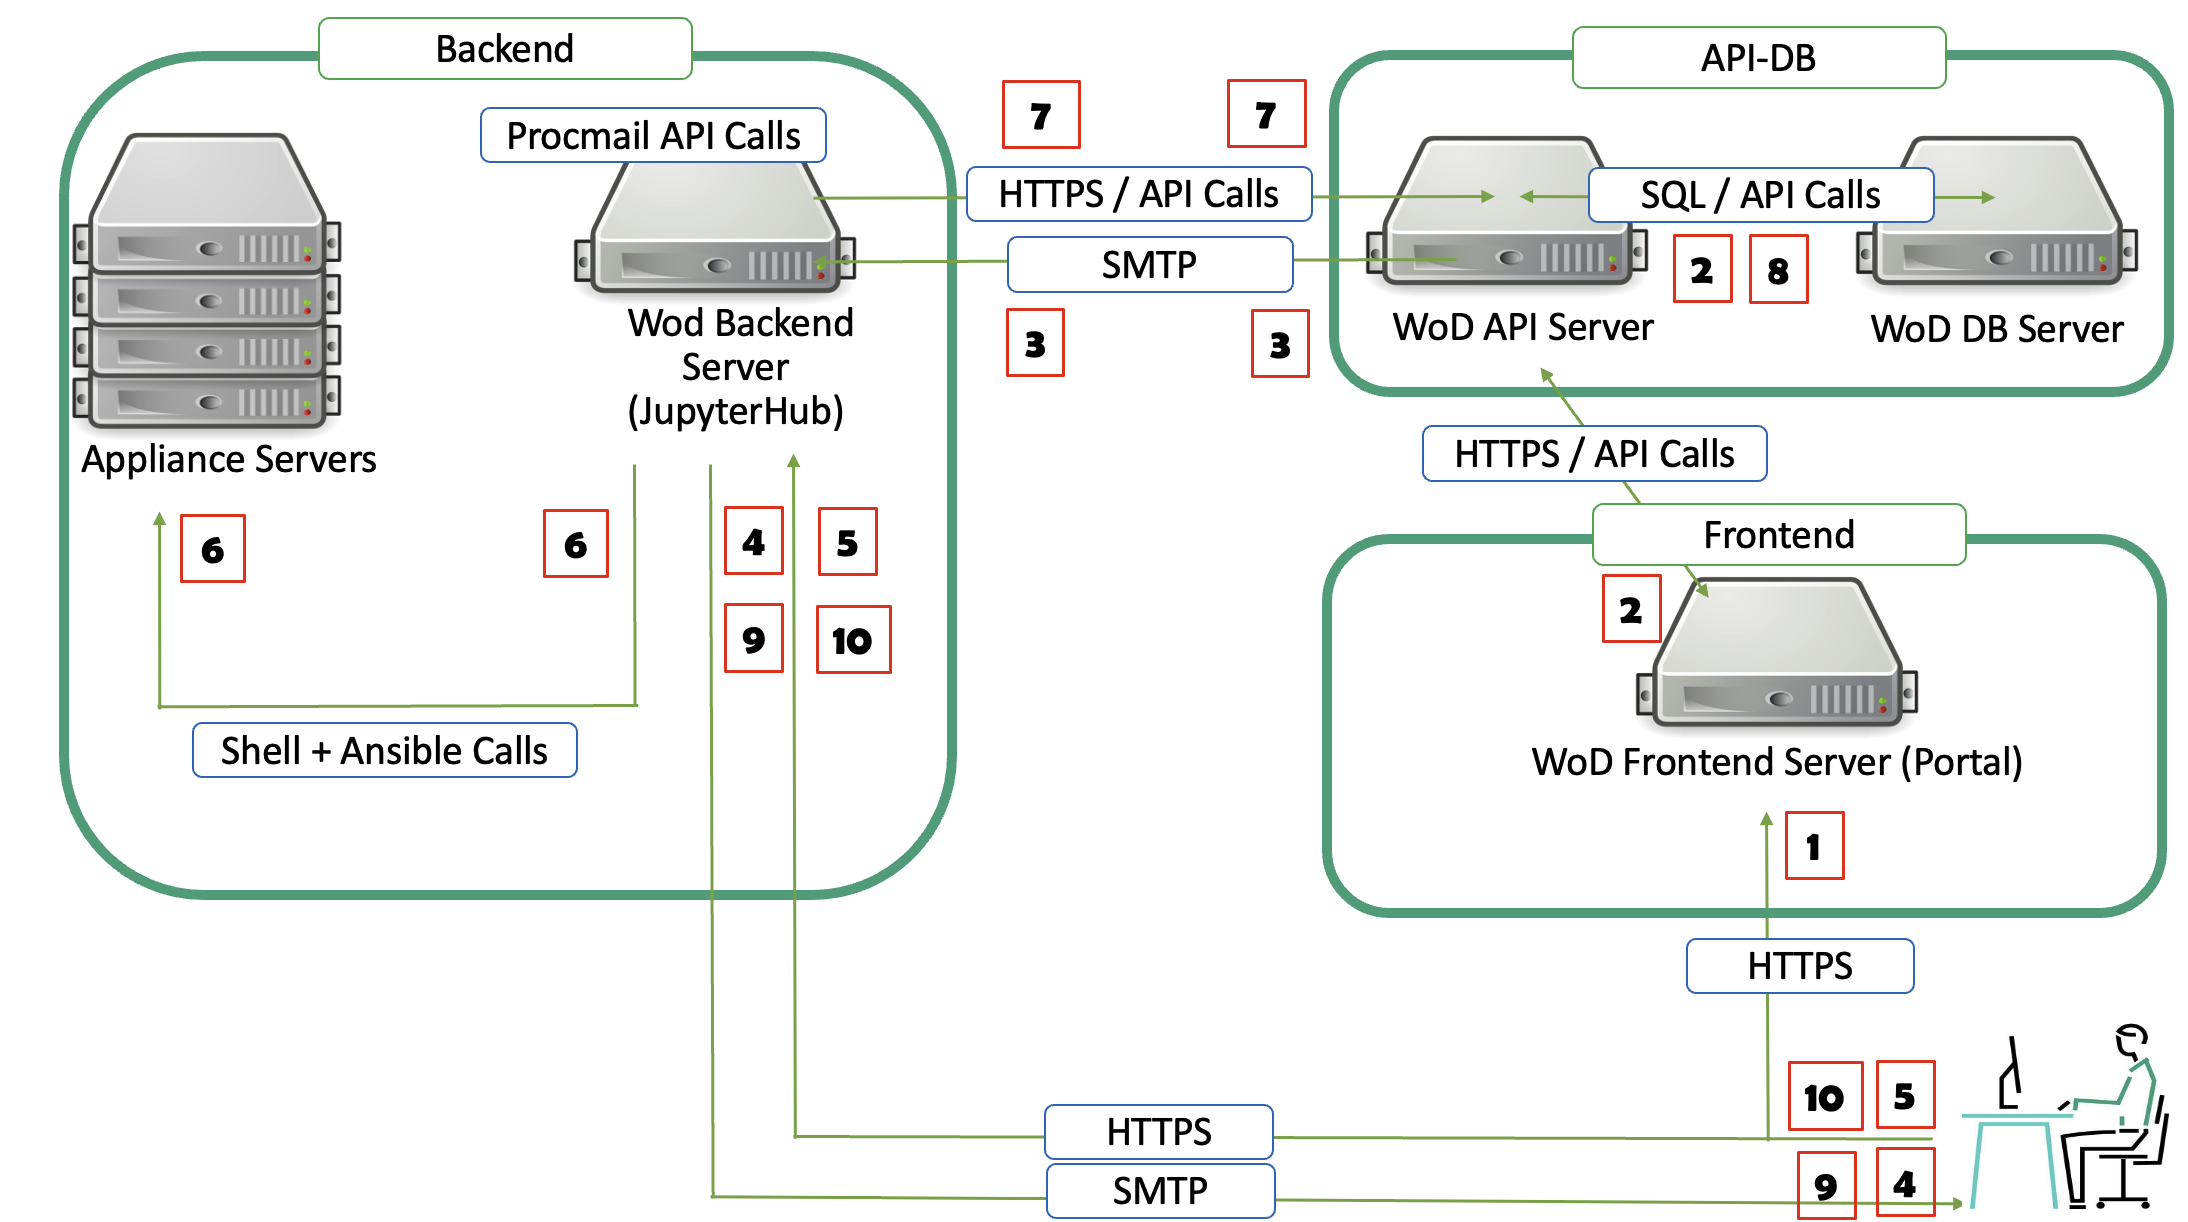
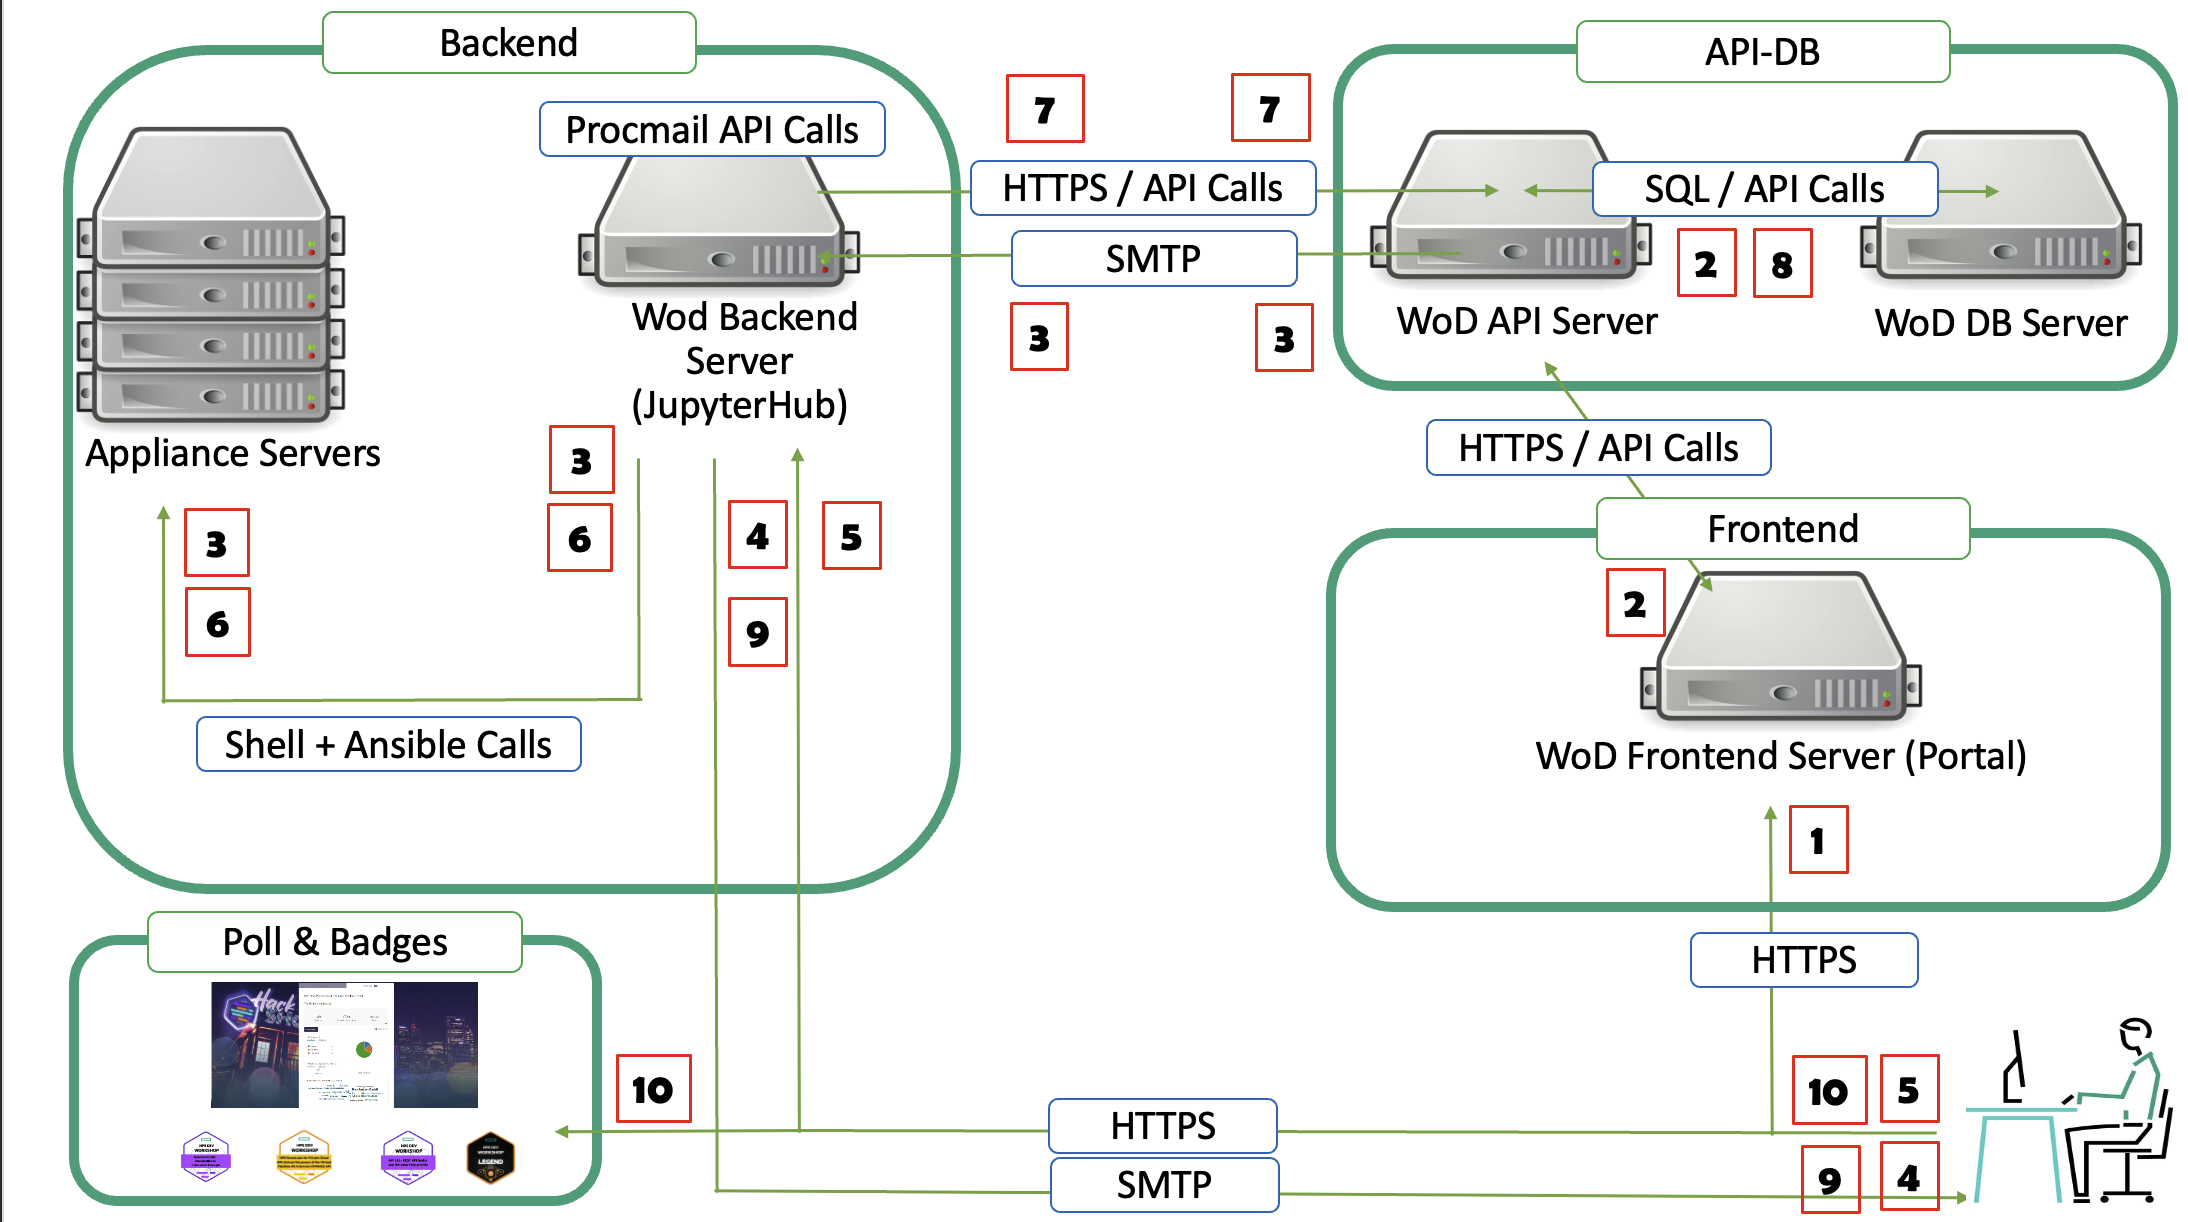
Start importing HPE blog articles to create the projects documentation

diff --git a/profile/GUIDE.md b/profile/GUIDE.md
@@ -1,0 +1,76 @@
+![HackShack Portal Page](img/hackshack.png)
+
+After the physical restrictions placed on us by the COVID-19 pandemic, everyone appears to be finding new ways to connect and learn.
+
+It is in this spirit that the HPE DEV team is making their highly popular Jupyter Notebook-based workshops available for free, under the Apache v2 Open Source license, now available at [github.com](https://github.com/Workshops-on-Demand). These on-demand workshops, which premiered at the HPE Discover Virtual Event, have met with rave reviews worldwide. They provide developers, data scientists, and IT professionals the opportunity to get more hands-on experience working with various technologies.
+
+These on-demand workshops offer students an understanding of specific technologies through a hands-on experience and detailed instructions provided in a Jupyter Notebook format. Read on to understand the details of this Workshops-on-Demand (WoD) program.
+
+Students will generally have between 2 and 4 hours to go through the course, which includes time to review the video replay (if available), follow the Jupyter Notebook instructions, and save their work to their local laptop should they want to do more work in their own environment or retake the workshop.
+
+Our goal is to provide both a platform that any structure can deploy onsite or in the cloud to support knowledge tranfer for their practitioners, as well as pre-existing content (which the HP DEV team also open sourced) on Open Source technologies. Those interested by the deplyment and architecture should read the [dedicated document](DOCUMENTATION.md).
+
+In the rest of this user's guide, we will use the existing HPE DEV Hackshack platform to explain how things works. The only difference between the Open Source platform and HPE's one is the portal, more rich for HPE, providing blog articles, technical documentation, ... OK Time to start !
+
+## How it works
+
+Those who wish to enroll in the workshop should go to the [Hack Shack Workshop page](https://developer.hpe.com/hackshack/workshops/). From there, select which on-demand workshop you want to take and click on the **Register** button:
+
+
+![navigate register button](https://hpe-developer-portal.s3.amazonaws.com/uploads/media/2020/7/navigate-register-button-1600260600088.png)
+
+At this point, the registration panel pops up. 
+Enter the details requested and click on the **Take the Workshop** button. In a matter of just a few minutes, you’ll start your workshop.
+
+
+![take the workshop pramod creds highlighted](https://hpe-developer-portal.s3.amazonaws.com/uploads/media/2020/7/take-the-workshop-pramod-creds-highlighted-1600260627823.png)
+
+By pressing the **Take the Workshop button**, you initiate a back-end automated registration process. This process spawns a dedicated notebook environment for you and sends you a welcome email indicating that you have been registered in the database. 
+
+![welcome email modified](https://hpe-developer-portal.s3.amazonaws.com/uploads/media/2020/7/welcome-email-modified-1600260633309.png)
+
+Not long after, it sends you a second email providing a link to your workshop, along with your StudentID and password.
+
+![highlighted clock](https://hpe-developer-portal.s3.amazonaws.com/uploads/media/2020/7/highlighted-clock-1600260594291.jpg)
+
+> **IMPORTANT: Receipt of this email indicates that the workshop environment is ready for you to begin. You will have just 4 hours from the receipt of this second email to complete the workshop. It is recommended that you only register for a workshop when you know you will have the next 4 hours to work on it. We advise you to regularly save your work and download the Jupyter Notebook to refer to later should you not be able to finish the course within the given 4-hour time slot. If you cannot finish the workshop in that time, you will need to run the course again from the beginning.**
+
+## The Jupyter Notebook-based workshops
+
+A Jupyter Notebook is an open-source web application that allows you to create and share documents that contain live code, equations, visualizations and narrative text. The Jupyter Project was an important step forward for sharing and interactive development.  [Project Jupyter’s](https://jupyter.org/index.html) [JupyterHub](https://jupyterhub.readthedocs.io/en/stable/) was created to support many users. The Hub can offer notebook servers to an entire class of students, a corporate data science workgroup, a scientific research project team, or a high-performance computing group. With [JupyterHub](https://github.com/jupyterhub/jupyterhub), you can create a multi-user Hub that spawns, manages, and proxies multiple instances of the single-user [Jupyter Notebook](https://mybinder.org/v2/gh/ipython/ipython-in-depth/master?filepath=binder/Index.ipynb) server.
+
+As explained in Fred Passeron’s earlier post, [Jupyter saved my day](/blog/jupyter-saved-my-day), for our on-demand workshops the notebooks contain simple Python or Powershell pieces of codes to interact with the different APIs available in the HPE portfolio. All instructions are provided in a markdown format. We centralize the different notebooks on a single JupyterHub server. 
+
+When you click on the **Start Workshop** button found in your second email, it will bring you to a **Sign In** page where you will log into the workshop with your StudentID and the password provided in your second email.
+
+
+![workshop screen 1 (3)](https://hpe-developer-portal.s3.amazonaws.com/uploads/media/2020/7/workshop-screen-1-3-1600260638100.png)
+
+Once you log in, open the workshop folder on the left by double-clicking on it. 
+
+![workshop screen 2](https://hpe-developer-portal.s3.amazonaws.com/uploads/media/2020/7/workshop-screen-2-1600260642513.png)
+
+Each notebook generally has several sections. Start with the **Read Me First** and follow the instructions from there.
+
+![workshop screen 3](https://hpe-developer-portal.s3.amazonaws.com/uploads/media/2020/7/workshop-screen-3-1600260646340.png)
+
+
+
+![read me first page](https://hpe-developer-portal.s3.amazonaws.com/uploads/media/2020/7/read-me-first-page-1600260610550.png)
+
+## Don’t forget to save your work 
+
+One hour prior to the end of the 4-hour period, you will receive an email reminding you that your session is coming to a close and that you should download the workshop notebook if you anticipate using it in the future. At the end of every session, the environment is cleaned up automatically, so be sure to save your work.
+
+
+![one hr warning email](https://hpe-developer-portal.s3.amazonaws.com/uploads/media/2020/7/one-hr-warning-email-1600260622217.png)
+
+At the end of the workshop, you will receive a final email indicating that the workshop is over. In the email, you will also be asked to take a short survey. The results of this survey will help us improve how we offer the workshops-on-demand in the future. Your feedback is very important to our being able to meet your needs, so we encourage you to take just a few minutes to fill it out.
+
+![end workshop survey](https://hpe-developer-portal.s3.amazonaws.com/uploads/media/2020/7/end-workshop-survey-1600260589980.png)
+
+## How to get help
+
+To receive SME assistance through our [workshop Slack channel](https://hpedev.slack.com/archives/C01B60X8SSD), make sure you join the [workspace](https://slack.hpedev.io/). We staff the channel to answer questions between 4 am and 4 pm EST Monday through Friday. You may wish to ensure you schedule the timing of your course between those hours if you think you’ll have questions or need additional help.
+
+There will be a limited number of seats available. These seats will be filled on a first-come/first-serve basis. We look forward to the opportunity of offering these workshops to you. Remember to [check the Hack Shack workshops library](/hackshack/workshops) regularly for any further updates.

diff --git a/profile/README.md b/profile/README.md
@@ -25,19 +25,23 @@ Before a note book is made available to the user requesting it, there are a cert
 
 * 1/ The user chooses the Workshop to run on the WoD Frontend portal through an https request
 * 2/ The WoD Frontend exchanges with the WoD API-DB server to setup the customer, and manage the request of workshop (availability, capacity, ...). The infos generated are stored in the DB.
-* 3/ The WoD API-DB server sends a mail to the procmail service in order to setup the required elements on backend side (jupyter notebook, potentially appliances, resources, ... in 3b). The full deployment is managed with shell scripts and ansible playbooks.
-* 4/ The WoD API-DB server prepares e-mails to be sent by the WoD Backend server to the user to give appropriate credentials.
-* 5/ The user runs his Jupyter notebook Workshop on Demand by connecting through https to the WoD Backend Jupyter Hub
-* 6/ The Notebook may access additional resources managed by appliances (storage, specific application, Hardware component, ...)
+* 3/ The WoD API-DB server sends a mail to the procmail service on the WoD backend in order to setup the required elements (jupyter notebook, potentially appliances, resources, ... in 3b). The full deployment is managed with shell scripts and ansible playbooks.
+* 4/ The WoD API-DB server prepares e-mails to be sent by the WoD Backend server to the user to give appropriate welcome and credentials.
+* 5/ The user runs his Jupyter notebook Workshop on Demand by connecting through https to the WoD Backend Jupyter Hub.
+* 6/ The Notebook may access additional resources managed by appliances (storage, specific applications, Hardware components, ...)
 * 7/ The WoD Backend server manages status and progresses by making https REST API calls to the WoD API-DB server, up to the end of the time slot.
 * 8/ The WoD API-DB server keeps track of live data concerning the user and the workshops in its DB.
-* 9/ The WoD Backend server warns the user of time remaining up to the end, and sneds also polls when the Workshop on Demand is finished.
-* 10/ The user fills the poll on the WoD Backend server.
+* 9/ The WoD Backend server warns the user of time remaining up to the end, and sends also polls when the Workshop on Demand is finished.
+* 10/ The user fills the poll ans wins badges.
 
 
 # Workshops-on-Demand documentation
 
-Here are a series of blogs published on the [HPE Developer Community Portal](https://developer.hpe.com/blog) describing the genesis and the architecture of the project. It also covers the deloyment phase of the different components as well as the creation of content.
+First you may want to read the [User's guide](GUIDE.md) to understand how to use the WoD solution, and how it's working from a user's perspective.
+
+Then there is the [technical documentation](DOCUMENTATION.md) describing the genesis and the architecture of the project. It also covers the deloyment phase of the different components as well as the creation of content.
+
+These articles were originally published on the [HPE Developer Community Portal](https://developer.hpe.com/blog) as blog articles.
 
 * 0/ [From Jupyter Notebooks-as-a-Service to HPE DEV Workshops-on-Demand](https://developer.hpe.com/blog/from-jupyter-notebooks-as-a-service-to-hpe-dev-workshops-on-demand/)
 * 1/ [Open sourcing Workshops-on-Demand part 1: Why and How](https://developer.hpe.com/blog/willing-to-build-up-your-own-workshops-on-demand-infrastructure/)
@@ -48,7 +52,7 @@ Here are a series of blogs published on the [HPE Developer Community Portal](htt
 
 You can also refer to the various presentations made on this project:
 * [LCA 2021](https://www.youtube.com/watch?v=D6Ss3T2p008)
-* [OSXP 2021](https://www.slideshare.net/HuinLucile/api-rest-procmail-la-rescousse)
+* [OSXP 2021](https://www.slideshare.net/HuinLucile/api-rest-procmail-la-rescousse) and the [Video](https://www.youtube.com/watch?v=zZm6ObQATDI)
 * [JDLL 2024](https://pretalx.jdll.org/jdll2024/talk/VUEQFM/)
 * [AlpOSS 2024](https://alposs.fr/2024/presentations/03%20-%20HPE%20-%20Bruno%20Cornec.pdf)
 
@@ -59,7 +63,7 @@ In order to install a full infrastructure, a set of reliminary steps are require
 * Install a VM/Physical machine with [Ubuntu 24.04 LTS](https://www.ubuntu-fr.org/download/) minimal and default setup. (20.04 or 22.04 should still work, while less tested these days).
 * On each VM the user ubuntu is being created and can be used for the initial setup. For access to the machine and account refer to the [Ubuntu documentation](https://ubuntu.com/server/docs/basic-installation) or how a VM template was set up. Ensure that this user as root access (either via sudo or with password access)
 * Then you have to ensure minimal dependencies are present to run the installation. We only need git. All other dependencies are installed by the installer. So issue on each machine: `sudo apt install git`
-* Once installed you can use it to clone the installer [wod-install repository](https://github.com/Workshops-on-Demand/wod-install)) again on each machine: `git clone https://github.com/Workshops-on-Demand/wod-install`
+* Once installed you can use it to clone the installer [wod-install repository](https://github.com/Workshops-on-Demand/wod-install) again on each machine: `git clone https://github.com/Workshops-on-Demand/wod-install`
 * Then you use the installer to install your WoD infrastructure: `cd wod-install/install ; ./install.sh -h`
 * [Reading the example](https://github.com/Workshops-on-Demand/wod-backend/blob/main/install/install.sh#L89) for the full infrastructure at the end of the help message should give you the required guidance to set it up.
 
